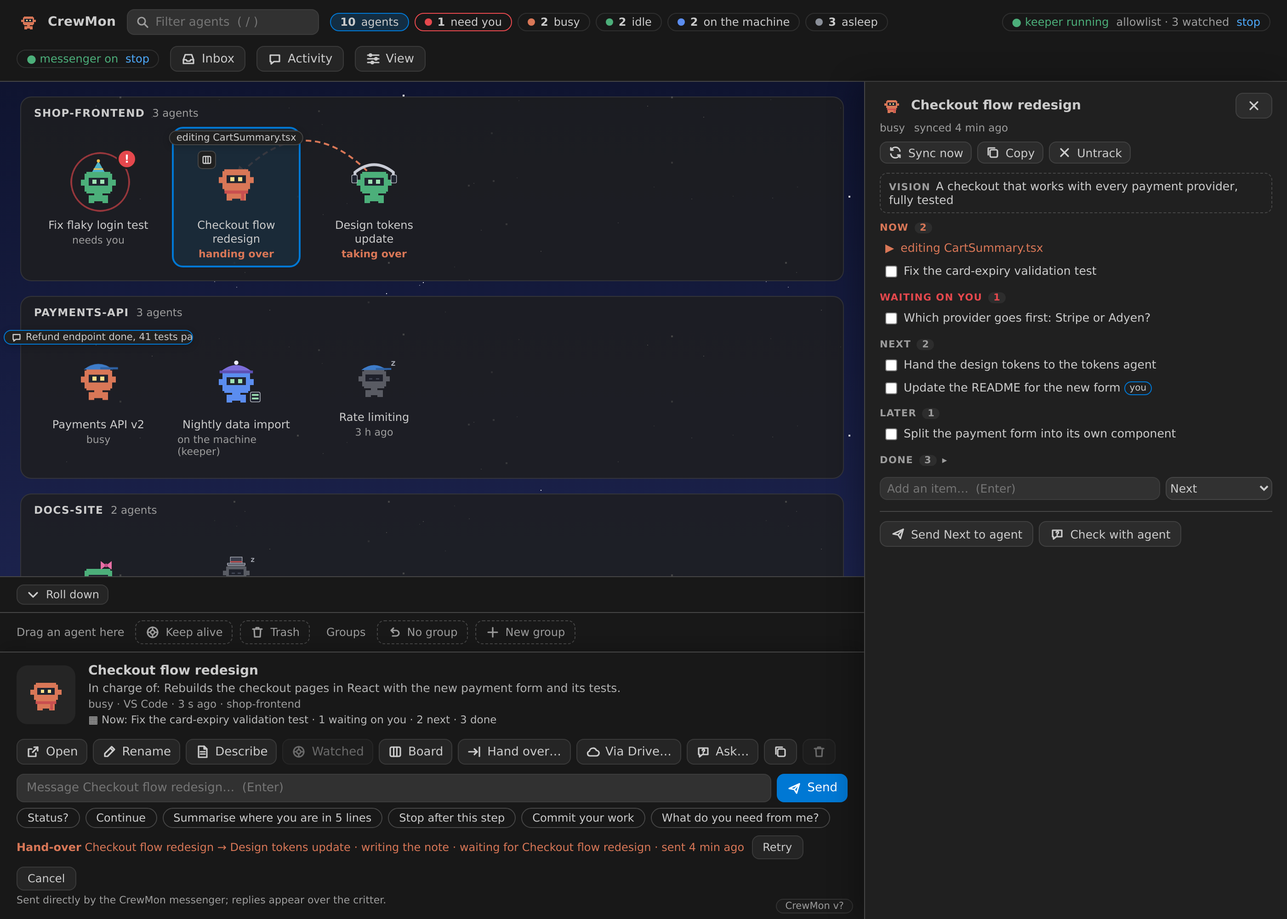
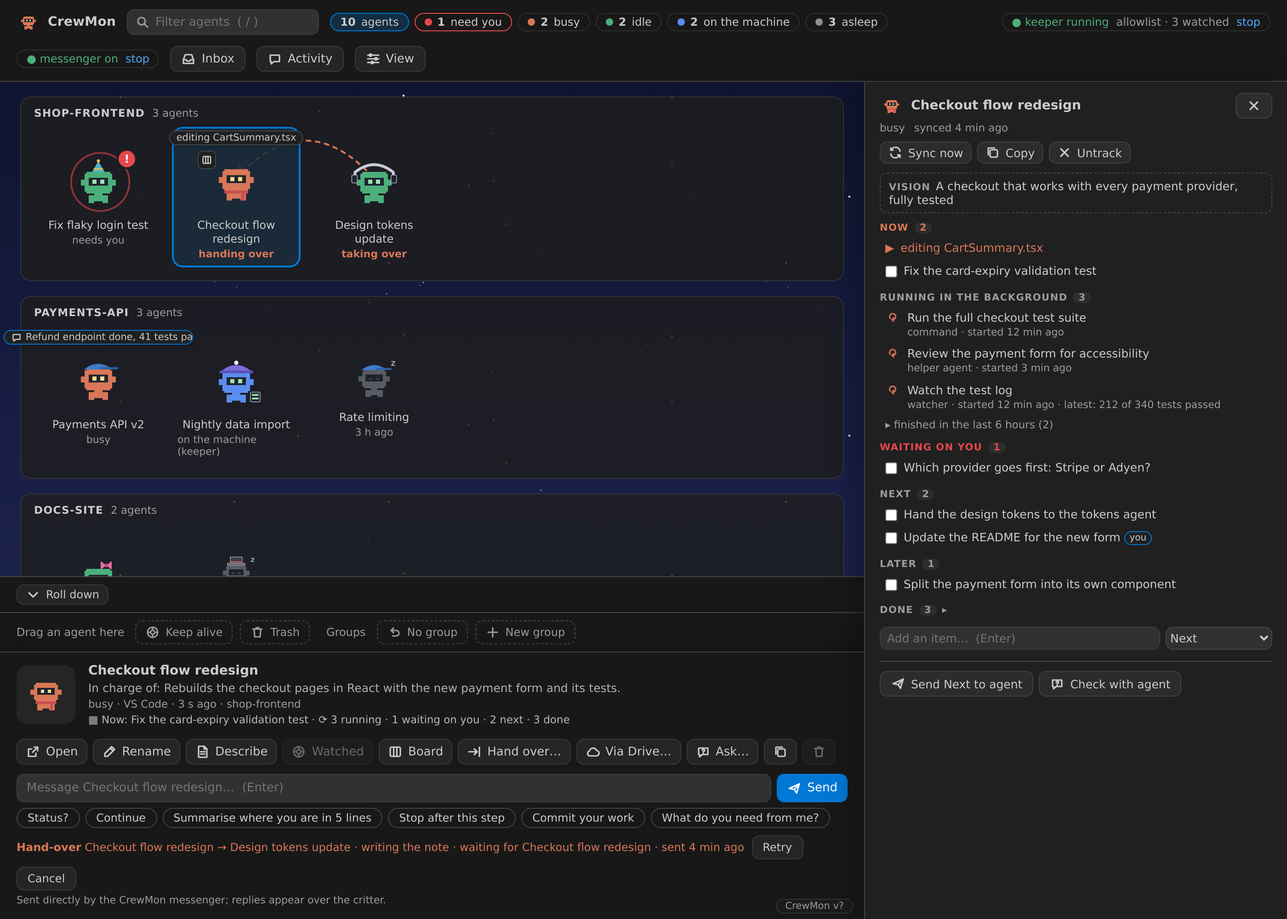
Work boards: show background work (commands, helper agents, workflows, watchers) from the chat; Send Next / Check with agent send directly and show the reply; re-sync after a reply

diff --git a/media/map.html b/media/map.html
@@ -292,6 +292,18 @@
   .bitem .acts button:hover { color: var(--fg); }
   .bitem .acts .ico { width: 13px; height: 13px; }
   .bitem.live { color: var(--busy); } .bitem.live.ask { color: var(--alert); }
+  .bjob { display: flex; gap: 8px; align-items: flex-start; padding: 4px 6px; border-radius: 6px; }
+  .bjob .ji { width: 16px; text-align: center; flex: none; font-weight: 700; }
+  .bjob.running .ji { color: var(--busy); animation: spin 1.6s linear infinite; display: inline-block; }
+  .bjob.completed .ji { color: var(--idle); } .bjob.failed .ji { color: var(--alert); } .bjob.stopped .ji, .bjob.unknown .ji { color: var(--muted); }
+  .bjob .jt { flex: 1; min-width: 0; line-height: 1.35; overflow-wrap: anywhere; }
+  .bjob .jm { color: var(--muted); font-size: 11px; }
+  .bjob:not(.running):not(.unknown) .jt > span:first-child { color: var(--muted); }
+  @keyframes spin { to { transform: rotate(360deg); } }
+  @media (prefers-reduced-motion: reduce) { .bjob.running .ji { animation: none; } }
+  #board .reply { margin-top: 10px; border-left: 3px solid var(--idle); background: var(--soft, rgba(127,127,127,.12)); border-radius: 6px; padding: 7px 10px; }
+  #board .reply.wait { border-left-color: var(--busy); color: var(--muted); }
+  #board .reply b { font-size: 10.5px; letter-spacing: .06em; text-transform: uppercase; color: var(--muted); display: block; margin-bottom: 3px; }
   .bempty { color: var(--muted); font-size: 11.5px; padding: 2px 6px; }
   #board .add { display: flex; gap: 6px; margin-top: 12px; }
   #board .add input { flex: 1; min-width: 0; }
@@ -436,7 +448,9 @@ const base = (p) => (p || '').split('/').filter(Boolean).pop() || '';
 const tilde = (p) => (p || '').replace(/^\/home\/[^/]+/, '~');
 const post = (m) => vscode.postMessage(m);
 
-let boards = {}, boardOpen = '', boardDoneOpen = false;
+let boards = {}, boardOpen = '', boardDoneOpen = false, boardJobsOpen = false;
+let replyAt = {};
+const boardSent = {};    // id -> {at, what}: you sent something from the board; the reply shows under it
 let sessions = [], keeper = null, chips = [], replies = {}, messengerOn = false, messengerStatus = 'off', active = [], activity = [];
 const saved = vscode.getState() || {};
 let layout = saved.layout || 'grouped';
@@ -766,6 +780,8 @@ function boardLine(s, b) {
   const n = (sec) => b.items.filter(x => x.section === sec).length;
   const now = b.items.find(x => x.section === 'now');
   const parts = [now ? 'Now: ' + now.text : s.state === 'busy' && s.activity ? 'Now: ' + s.activity : ''];
+  const run = b.jobs ? b.jobs.running.filter(j => j.status === 'running').length : 0;
+  if (run) parts.push('⟳ ' + run + ' running');
   if (n('waiting') || s.needsYou) parts.push((n('waiting') + (s.needsYou ? 1 : 0)) + ' waiting on you');
   parts.push(n('next') + ' next', n('done') + ' done');
   return '▦ ' + parts.filter(Boolean).join(' · ');
@@ -813,7 +829,23 @@ function renderBoard() {
     '<div class="tools"><button class="ghost" id="bsync"' + (b.syncing ? ' disabled' : '') + '>' + ic('sync') + 'Sync now</button>' +
     '<button class="ghost" id="bcopy">' + ic('copy') + 'Copy</button><button class="ghost" id="buntrack" title="Stop tracking; the board is kept">' + ic('x') + 'Untrack</button></div>' +
     '<div class="vision" id="bvision" title="Click to edit">' + '<b>Vision</b>' + (b.vision ? esc(b.vision) : '<span class="ph">the longer-term goal, in one line (click to write)</span>') + '</div>';
+  const jobs = b.jobs || { running: [], recent: [] };
+  const kindName = { command: 'command', subagent: 'helper agent', workflow: 'workflow', monitor: 'watcher' };
+  const since = (t) => t ? ago(Math.max(1, Math.round((Date.now() - t) / 1000))) : '';
+  const job = (j) => {
+    const icon = { running: '⟳', completed: '✓', failed: '✗', stopped: '■', unknown: '?' }[j.status] || '•';
+    const when = j.status === 'running' ? 'started ' + since(j.started) : j.status === 'unknown' ? 'its chat is closed, so it is probably not running' :
+      { completed: 'finished', failed: 'failed', stopped: 'stopped' }[j.status] + ' ' + since(j.ended);
+    const extra = j.last ? 'latest: ' + j.last : j.status !== 'running' && j.result ? j.result : '';
+    return '<div class="bjob ' + j.status + '" title="' + esc(j.title) + '"><span class="ji" aria-hidden="true">' + icon + '</span><div class="jt"><span>' + esc(j.title || kindName[j.kind]) + '</span>' +
+      '<div class="jm">' + esc(kindName[j.kind] + ' · ' + when) + (extra ? ' · ' + esc(extra) : '') + '</div></div></div>';
+  };
+  const runningHTML = (jobs.running.length || jobs.recent.length) ? '<div class="bsec jobs"><h4 title="Commands, helper agents, workflows and watchers it started in the background">Running in the background <span class="n">' +
+    jobs.running.length + '</span></h4>' + (jobs.running.length ? jobs.running.map(job).join('') : '<div class="bempty">nothing running right now</div>') +
+    (jobs.recent.length ? '<div class="bempty" id="bjobs" style="cursor:pointer" title="Show or hide">' + (boardJobsOpen ? '▾' : '▸') + ' finished in the last 6 hours (' + jobs.recent.length + ')</div>' +
+      (boardJobsOpen ? jobs.recent.map(job).join('') : '') : '') + '</div>' : '';
   for (const [sec, label] of SECS) {
+    if (sec === 'waiting') html += runningHTML;
     let items = b.items.filter(x => x.section === sec).sort((p, q) => (q.pinned - p.pinned) || (sec === 'done' ? q.at - p.at : p.at - q.at));
     const live = [];
     if (sec === 'now' && s.state === 'busy' && s.activity) live.push('<div class="bitem live" title="Live, from what it is doing this second">▶ <div class="tx">' + esc(s.activity) + '</div></div>');
@@ -827,14 +859,20 @@ function renderBoard() {
   }
   html += '<div class="add"><input type="text" id="badd" placeholder="Add an item…  (Enter)" aria-label="New item"><select id="baddsec" aria-label="Section">' +
     SECS.filter(([k]) => k !== 'done').map(([k, l]) => '<option value="' + k + '"' + (k === 'next' ? ' selected' : '') + '>' + l + '</option>').join('') + '</select></div>' +
-    '<div class="foot"><button class="ghost" id="bsendnext" title="Fill the message bar with your Next items; you press Send">' + ic('send') + 'Send Next to agent</button>' +
-    '<button class="ghost" id="bcheck" title="Fill the message bar with the board and ask the agent to correct it; you press Send">' + ic('ask') + 'Check with agent</button></div>';
+    '<div class="foot"><button class="ghost" id="bsendnext" title="Sends your Next items to the agent now; its reply shows here">' + ic('send') + 'Send Next to agent</button>' +
+    '<button class="ghost" id="bcheck" title="Sends the board to the agent and asks it to correct it; its reply shows here">' + ic('ask') + 'Check with agent</button></div>';
+  const sent = boardSent[s.id];
+  const reply = replies[s.id] && (!sent || (replyAt[s.id] || 0) > sent.at) ? replies[s.id] : '';   // only an answer that came after you sent
+  if (sent && !reply) html += '<div class="reply wait"><b>Sent: ' + esc(sent.what) + '</b>' +
+    (messengerOn ? 'Waiting for its reply… it appears here and over the critter.' : 'The chat opened with the message typed in: press Enter there to send it.') + '</div>';
+  else if (reply) html += '<div class="reply"><b>Its latest reply</b>' + esc(reply) + '</div>';
   el.innerHTML = html;
   const id = s.id;
   $('bclose').onclick = closeBoard;
   $('bsync').onclick = () => { bpost('sync'); b.syncing = true; renderBoard(); };
   $('bcopy').onclick = () => bpost('copy');
   $('buntrack').onclick = () => bpost('untrack');
+  if ($('bjobs')) $('bjobs').onclick = () => { boardJobsOpen = !boardJobsOpen; renderBoard(); };
   if ($('bdone')) $('bdone').onclick = () => { boardDoneOpen = !boardDoneOpen; renderBoard(); };
   el.querySelectorAll('[data-open]').forEach(x => x.onclick = () => post({ type: 'open', id }));
   $('bvision').onclick = () => editInline($('bvision'), b.vision, (t) => bpost('vision', { text: t }), 'The longer-term goal, in one line');
@@ -843,15 +881,20 @@ function renderBoard() {
     if (e.key === 'Enter' && $('badd').value.trim()) { bpost('add', { text: $('badd').value.trim(), section: $('baddsec').value }); $('badd').value = ''; }
     if (e.key === 'Escape') $('badd').blur();
   });
+  const sendNow = (what, text) => {
+    post({ type: 'send', ids: [id], text });
+    boardSent[id] = { at: Date.now(), what };
+    renderBoard();
+  };
   $('bsendnext').onclick = () => {
     const next = b.items.filter(x => x.section === 'next');
-    if (!next.length) { prefill(id, 'What comes next, in 3 lines?'); return; }
-    prefill(id, 'From my board, the next steps are: ' + next.map((x, i) => (i + 1) + ') ' + x.text).join('; ') + '. Continue with these, in this order.');
+    if (!next.length) { sendNow('asked what comes next', 'What comes next? Answer in 3 lines.'); return; }
+    sendNow('your ' + next.length + ' next step' + (next.length > 1 ? 's' : ''), 'From my board, the next steps are: ' + next.map((x, i) => (i + 1) + ') ' + x.text).join('; ') + '. Continue with these, in this order, and first reply in one line with what you start on.');
   };
   $('bcheck').onclick = () => {
     const name = { now: 'now', waiting: 'waiting on me', next: 'next', later: 'later' };
     const open = b.items.filter(x => x.section !== 'done').map(x => x.text + ' (' + name[x.section] + ')').join('; ');
-    prefill(id, 'This is how I see your work right now: ' + (b.vision ? 'goal: ' + b.vision + '. ' : '') + (open || 'nothing open') +
+    sendNow('the board, to check', 'This is how I see your work right now: ' + (b.vision ? 'goal: ' + b.vision + '. ' : '') + (open || 'nothing open') +
       '. Correct anything that is wrong or missing, in at most 5 lines. Do not start new work.');
   };
   el.querySelectorAll('.bitem[data-item]').forEach(row => {
@@ -1204,7 +1247,7 @@ window.addEventListener('message', (e) => {
     sessions = m.data.sessions || []; keeper = m.data.keeper || null; chips = m.data.chips || [];
     if (m.data.critter && m.data.critter !== defaultStyle) { defaultStyle = m.data.critter; renderLegend(); }
     $('style').value = critterStyle();
-    replies = m.data.replies || {}; messengerOn = !!m.data.messenger; messengerStatus = m.data.messengerStatus || 'off'; active = m.data.active || [];
+    replies = m.data.replies || {}; replyAt = m.data.replyAt || {}; messengerOn = !!m.data.messenger; messengerStatus = m.data.messengerStatus || 'off'; active = m.data.active || [];
     activity = m.data.activity || []; if (!$('act').hidden) renderActivity();
     drive = m.data.drive || drive; if (!$('inbox').hidden) renderInbox();
     boards = m.data.boards || {};

diff --git a/board.js b/board.js
@@ -116,6 +116,8 @@ function excerpt(file, from) {
     const m = r.message, c = m && m.content;
     if (r.type === 'user' && m && m.role === 'user') {
       const t = textOf(m);
+      const nt = /<task-notification>[\s\S]*?<status>(\w+)<\/status>[\s\S]*?<summary>([\s\S]*?)<\/summary>/.exec(t);
+      if (nt) { out.push('FINISHED (' + nt[1] + ') ' + clean(nt[2], 200)); continue; }
       if (/^(This session is being continued|.{0,40}Primary Request and Intent)/.test(t)) {
         const parts = []; let p; SUMMARY_PARTS.lastIndex = 0;
         while ((p = SUMMARY_PARTS.exec(String(typeof c === 'string' ? c : textOf(m)))) && parts.length < 3) parts.push(p[1] + ': ' + clean(p[2], 900));
@@ -226,6 +228,64 @@ function parseReply(out) {
   return j.ops;
 }
 
+// ---- background work: commands, subagents, workflows, monitors (no AI) ----
+const JOB_TOOLS = { Bash: 'command', Agent: 'subagent', Task: 'subagent', Workflow: 'workflow', Monitor: 'monitor' };
+function jobs(file, opts) {
+  const o = opts || {};
+  const st = fs.statSync(file);
+  const start = Math.max(0, st.size - (o.bytes || 8 * 1024 * 1024));
+  const fd = fs.openSync(file, 'r'); const buf = Buffer.alloc(st.size - start); fs.readSync(fd, buf, 0, buf.length, start); fs.closeSync(fd);
+  let text = buf.toString('utf8'); if (start > 0) text = text.slice(text.indexOf('\n') + 1);
+  const byUse = new Map(), byTask = new Map();
+  const finish = (j, status, at, summary) => {
+    if (!j || j.status !== 'running') return;
+    j.status = status; j.ended = at;
+    const r = clean(String(summary || '').replace(/^(Background command|Monitor|Dynamic workflow|Workflow|Agent|Subagent)\s+"[^"]*"\s*/i, ''), 200);
+    if (r) j.result = r;
+  };
+  for (const line of text.split('\n')) {
+    if (!line.includes('tool_use') && !line.includes('task-notification') && !line.includes('tool_result')) continue;
+    let r; try { r = JSON.parse(line); } catch (_) { continue; }
+    const at = r.timestamp ? Date.parse(r.timestamp) : 0, c = r.message && r.message.content;
+    const blocks = Array.isArray(c) ? c : typeof c === 'string' ? [{ type: 'text', text: c }] : [];
+    for (const b of blocks) {
+      if (!b) continue;
+      if (b.type === 'tool_use' && JOB_TOOLS[b.name]) {
+        const i = b.input || {};
+        if (b.name === 'Bash' && !i.run_in_background) continue;
+        byUse.set(b.id, { use: b.id, kind: JOB_TOOLS[b.name], title: clean(i.description || i.prompt || i.command || (i.script || '').replace(/[\s\S]*?description:\s*['"]([^'"]+)[\s\S]*/, '$1'), 90),
+          started: at, status: 'running', sync: b.name === 'Agent' && !i.run_in_background });
+      } else if (b.type === 'tool_result') {
+        const j = byUse.get(b.tool_use_id);
+        const t = typeof b.content === 'string' ? b.content : JSON.stringify(b.content || '');
+        if (j) {
+          const id = /background with ID: (\w+)|agentId: (\w+)|Task ID: (\w+)|Monitor started \(task (\w+)/.exec(t);
+          if (id) { j.task = id.slice(1).find(Boolean); byTask.set(j.task, j); }
+          else if (b.is_error) finish(j, 'failed', at, t.replace(/<[^>]+>/g, ' '));
+          else finish(j, 'completed', at, '');      // it ran in the foreground after all (or a subagent that waited)
+        }
+        const stop = /Successfully stopped task: (\w+)/.exec(t);
+        if (stop) finish(byTask.get(stop[1]), 'stopped', at, 'stopped');
+      } else if (b.type === 'text' && b.text && b.text.includes('<task-notification>')) {
+        for (const n of b.text.split('<task-notification>').slice(1)) {
+          const g = (tag) => { const x = new RegExp('<' + tag + '>([\\s\\S]*?)</' + tag + '>').exec(n); return x ? x[1].trim() : ''; };
+          const j = byUse.get(g('tool-use-id')) || byTask.get(g('task-id'));
+          if (!j) continue;
+          const status = g('status');
+          if (status) finish(j, status === 'completed' ? 'completed' : status === 'failed' ? 'failed' : 'stopped', at, g('summary'));
+          else { j.last = clean(g('summary') || g('event') || n.replace(/<[^>]+>/g, ' '), 140); j.lastAt = at; }   // a monitor's event
+        }
+      }
+    }
+  }
+  const now = o.now || Date.now();
+  const list = [...byUse.values()].filter(j => !(j.sync && j.status !== 'running'));
+  if (o.offline) for (const j of list) if (j.status === 'running') { j.status = 'unknown'; j.result = 'the chat is not running'; }
+  const running = list.filter(j => j.status === 'running' || j.status === 'unknown').sort((a, b) => b.started - a.started);
+  const recent = list.filter(j => j.status !== 'running' && j.status !== 'unknown' && now - (j.ended || 0) < (o.recentMs || 6 * 3600e3)).sort((a, b) => b.ended - a.ended);
+  return { running: running.slice(0, 12), recent: recent.slice(0, 8) };
+}
+
 // Should this tracked agent sync now? New turns, idle (or forced), and not too soon.
 function due(b, s, now) {
   if (!b || !b.tracked || !s || !s.file) return false;
@@ -234,4 +294,4 @@ function due(b, s, now) {
   return (now || Date.now()) - (b.lastTry || 0) >= MIN_GAP_MS;
 }
 
-module.exports = { SECTIONS, dir, fileOf, empty, load, save, all, userEdit, excerpt, applyTodos, applyOps, prompt, parseReply, due, similar, norm, MIN_GAP_MS };
+module.exports = { jobs, SECTIONS, dir, fileOf, empty, load, save, all, userEdit, excerpt, applyTodos, applyOps, prompt, parseReply, due, similar, norm, MIN_GAP_MS };

diff --git a/tools/test/board.test.js b/tools/test/board.test.js
@@ -118,3 +118,46 @@ test('save is atomic and all() reads boards back', () => {
   assert.equal(B.all(home).s1.vision, 'Ship 1.0');
   assert.ok(!fs.existsSync(B.fileOf('s1', home) + '.tmp'));
 });
+
+test('background work: running, finished, failed, stopped, workflow, subagent, monitor', () => {
+  const f = path.join(fs.mkdtempSync(path.join(os.tmpdir(), 'crewmon-jobs-')), 'c.jsonl');
+  const T = (m) => new Date(Date.now() - m * 60e3).toISOString();
+  const use = (id, name, input, m) => ({ type: 'assistant', timestamp: T(m), message: { content: [{ type: 'tool_use', id, name, input }] } });
+  const res = (id, text, m) => ({ type: 'user', timestamp: T(m), message: { role: 'user', content: [{ type: 'tool_result', tool_use_id: id, content: text }] } });
+  const note = (use, task, status, summary, m) => ({ type: 'user', timestamp: T(m), message: { role: 'user', content:
+    '<task-notification>\n<task-id>' + task + '</task-id>\n<tool-use-id>' + use + '</tool-use-id>\n' + (status ? '<status>' + status + '</status>\n' : '') + '<summary>' + summary + '</summary>\n</task-notification>' } });
+  const recs = [
+    use('u1', 'Bash', { command: 'python long.py', description: 'Run the long job', run_in_background: true }, 50), res('u1', 'Command running in background with ID: b1. Output…', 50),
+    use('u2', 'Bash', { command: 'make', description: 'Build it', run_in_background: true }, 40), res('u2', 'Command running in background with ID: b2.', 40),
+    note('u2', 'b2', 'completed', 'Background command "Build it" completed (exit code 0)', 30),
+    use('u3', 'Bash', { command: 'pytest', description: 'Run tests', run_in_background: true }, 40), res('u3', 'Command running in background with ID: b3.', 40),
+    note('u3', 'b3', 'failed', 'Background command "Run tests" failed with exit code 1', 35),
+    use('u4', 'Bash', { command: 'sleep 999', description: 'Wait', run_in_background: true }, 20), res('u4', 'Command running in background with ID: b4.', 20),
+    use('u5', 'TaskStop', { task_id: 'b4' }, 19), res('u5', '{"message":"Successfully stopped task: b4 (sleep 999)"}', 19),
+    use('u6', 'Workflow', { script: "export const meta = { name: 'x', description: 'Verify the tables' }" }, 15), res('u6', 'Workflow launched in background. Task ID: w1\nSummary: Verify the tables', 15),
+    use('u7', 'Agent', { description: 'Find the data', prompt: 'find', run_in_background: true }, 10), res('u7', [{ type: 'text', text: 'Async agent launched successfully.\nagentId: a1 (internal ID)' }], 10),
+    note('u7', 'a1', 'completed', 'Agent "Find the data" finished', 5),
+    use('u8', 'Agent', { description: 'Quick look', prompt: 'look' }, 9), res('u8', 'It is in data/', 8),
+    use('u9', 'Monitor', { command: 'until …', description: 'Watch the log' }, 6), res('u9', 'Monitor started (task m1, expires in 30m…)', 6),
+    note('u9', 'm1', '', 'stage 3 of 5 done', 2),
+    use('u10', 'Bash', { command: 'ls', description: 'List' }, 1),
+  ];
+  fs.writeFileSync(f, recs.map(r => JSON.stringify(r)).join('\n') + '\n');
+  const j = B.jobs(f);
+  const st = (t) => { const x = j.running.concat(j.recent).find(y => y.title === t); return x && x.status; };
+  assert.equal(st('Run the long job'), 'running');
+  assert.equal(st('Build it'), 'completed');
+  assert.equal(j.recent.find(y => y.title === 'Build it').result, 'completed (exit code 0)');
+  assert.equal(st('Run tests'), 'failed');
+  assert.equal(st('Wait'), 'stopped');
+  assert.equal(st('Verify the tables'), 'running');
+  assert.equal(st('Find the data'), 'completed');
+  assert.equal(st('Quick look'), undefined);        // a subagent that ran while the agent waited is not background work
+  assert.equal(st('List'), undefined);              // a normal command is not background work
+  assert.equal(j.running.find(y => y.title === 'Watch the log').last, 'stage 3 of 5 done');
+  assert.equal(j.running.length, 3);
+  const off = B.jobs(f, { offline: true });
+  assert.equal(off.running.find(y => y.title === 'Run the long job').status, 'unknown');
+  const ex = B.excerpt(f, 0);
+  assert.ok(ex.text.includes('FINISHED (failed) Background command "Run tests" failed with exit code 1'));
+});

diff --git a/extension.js b/extension.js
@@ -135,11 +135,12 @@ function autoResend(active, lines) {
 }
 let lastSessions = [];
 function readInbox() {
-  const replies = {}, now = Date.now();
+  const replies = {}, replyAt = {}, now = Date.now();
   let lines = [];
   try { lines = fs.readFileSync(path.join(MSG_DIR, 'inbox.jsonl'), 'utf8').split('\n').filter(Boolean).map(l => JSON.parse(l)); } catch (_) { /* none yet */ }
   for (const x of lines) {
-    if (x.kind === 'reply' && x.session && now - x.at < 30 * 60e3) replies[x.session] = (x.text || '').slice(0, 300);
+    if (x.kind === 'reply' && x.session && now - x.at < 30 * 60e3) { replies[x.session] = (x.text || '').slice(0, 300); replyAt[x.session] = x.at; }
+    if (x.at > inboxSeen && x.kind === 'reply' && x.session && Board.load(x.session)) boardForce.add(x.session);   // a tracked agent answered: bring its board up to date
     if (x.at > inboxSeen && x.kind === 'drive-uploaded') {
       let d = {}; try { d = JSON.parse(x.text); } catch (_) { /* */ }
       const pick = pickupText(d.title, d.url, d.zip);
@@ -196,7 +197,7 @@ function readInbox() {
   autoResend(active, lines);
   let drive = null;
   try { drive = JSON.parse(fs.readFileSync(path.join(MSG_DIR, 'drive.json'), 'utf8')); } catch (_) { /* not listed yet */ }
-  return { replies, active, activity, drive };
+  return { replies, replyAt, active, activity, drive };
 }
 
 // ---- Google Drive hand-overs ----
@@ -471,10 +472,23 @@ async function boardAction(m) {
   }
   push();
 }
-function boardsForView() {
+const jobCache = new Map();         // id -> {key, val}: background work, re-read only when the chat grows (or once a minute)
+function jobsOf(s) {
+  const key = s.size + ':' + (s.state === 'offline') + ':' + Math.floor(Date.now() / 60e3);
+  const c = jobCache.get(s.id);
+  if (c && c.key === key) return c.val;
+  let val = { running: [], recent: [] };
+  try { val = Board.jobs(s.file, { offline: s.state === 'offline' }); } catch (_) { /* unreadable: show none */ }
+  jobCache.set(s.id, { key, val });
+  return val;
+}
+function boardsForView(sessions) {
   const out = {};
-  for (const b of Object.values(Board.all())) if (b.tracked)
-    out[b.id] = { vision: b.vision, items: b.items, syncedAt: b.syncedAt, lastError: b.lastError, syncing: boardBusy === b.id };
+  for (const b of Object.values(Board.all())) if (b.tracked) {
+    const s = (sessions || []).find(x => x.id === b.id);
+    out[b.id] = { vision: b.vision, items: b.items, syncedAt: b.syncedAt, lastError: b.lastError, syncing: boardBusy === b.id,
+      jobs: s && s.file ? jobsOf(s) : { running: [], recent: [] } };
+  }
   return out;
 }
 
@@ -589,10 +603,11 @@ async function push() {
   lastSessions = data.sessions || [];
   const ib = readInbox();
   data.replies = ib.replies;
+  data.replyAt = ib.replyAt;
   data.active = ib.active;
   data.activity = ib.activity;
   data.drive = ib.drive;
-  data.boards = boardsForView();
+  data.boards = boardsForView(data.sessions);
   const slim = Object.assign({}, data, { sessions: (data.sessions || []).map(s => Object.assign({}, s, { summary: undefined })) });
   if (panel) panel.webview.postMessage({ type: 'data', data: slim });
 }

diff --git a/tools/screenshot/demo-data.js b/tools/screenshot/demo-data.js
@@ -43,7 +43,15 @@ module.exports = {
     { id: 'demo1', title: 'Hand-over from Payments API v2 · 2026-11-20', modified: '2026-11-20T09:41:00Z', description: 'CrewMon hand-over, not picked up yet', url: 'https://docs.google.com/document/d/demo1/edit' },
     { id: 'demo2', title: 'Hand-over from Release notes 2.4 · 2026-11-18', modified: '2026-11-18T16:05:00Z', description: 'Picked up by "Docs search" on 2026-11-19 08:12', url: 'https://docs.google.com/document/d/demo2/edit' } ] },
   messenger: true, messengerStatus: 'on', critter: 'bot',
-  boards: { 'a1f3c9d2-1': { vision: 'A checkout that works with every payment provider, fully tested', syncedAt: now - 240e3, syncing: false, lastError: '', items: [
+  boards: { 'a1f3c9d2-1': { jobs: {
+    running: [
+      { kind: 'command', title: 'Run the full checkout test suite', status: 'running', started: now - 720e3 },
+      { kind: 'subagent', title: 'Review the payment form for accessibility', status: 'running', started: now - 180e3 },
+      { kind: 'monitor', title: 'Watch the test log', status: 'running', started: now - 700e3, last: '212 of 340 tests passed' } ],
+    recent: [
+      { kind: 'workflow', title: 'Check every page in three browsers', status: 'completed', started: now - 5400e3, ended: now - 3000e3, result: 'completed: 18 pages, no problems' },
+      { kind: 'command', title: 'Build the production bundle', status: 'failed', started: now - 2400e3, ended: now - 2300e3, result: 'failed with exit code 1' } ] },
+    vision: 'A checkout that works with every payment provider, fully tested', syncedAt: now - 240e3, syncing: false, lastError: '', items: [
     { id: 'b1', section: 'now', text: 'Fix the card-expiry validation test', src: 'auto', at: now - 300e3 },
     { id: 'b2', section: 'waiting', text: 'Which provider goes first: Stripe or Adyen?', src: 'auto', at: now - 900e3 },
     { id: 'b3', section: 'next', text: 'Hand the design tokens to the tokens agent', src: 'auto', at: now - 800e3 },

diff --git a/docs/BOARD.md b/docs/BOARD.md
@@ -35,13 +35,21 @@ and draws the board. Nothing is sent to an agent unless you click.
 - At most 6 new items per sync; near-duplicates are merged.
 - Untrack keeps the board file; Track again brings it back.
 
+## Running in the background
+
+Read straight from the chat, no AI: every command started with `run_in_background`, helper agent (async subagent),
+workflow and watcher (Monitor) has a start and a finish record (`completed`, `failed`, `stopped`) that points back to
+it. The board shows what is running and for how long, the latest event of a watcher, and what finished in the last 6
+hours. When the chat is closed, anything still marked running is shown as *probably not running*. Finished work is
+also given to the sync as proof for *Done*.
+
 ## Talking to the agent (only when you click)
 
-- **Ask** on an item: the message bar opens with that item filled in.
-- **Send Next**: the message bar opens with your *Next* items as a numbered list.
-- **Check with agent**: the message bar opens with the board, asking the agent to correct it in a few lines.
+- **Send Next to agent** and **Check with agent** send at once (through the messenger) and show *Waiting for its
+  reply…*; only an answer that arrives after you sent counts, and the board re-syncs when it arrives.
+- **Ask** on an item fills the message bar with that item, for you to finish and send.
 
-You still press Send, so the agent is never interrupted by the board itself.
+Nothing is ever sent by the board on its own.
 
 ## Files
 

diff --git a/README.md b/README.md
@@ -113,8 +113,11 @@ the card shows one line (*Now: … · 1 waiting on you · 2 next*), and **Board*
   its own to-do list, that list is used as is.
 - **Your items stay yours**: what you add, edit or pin is never reworded or moved by the sync; it can only be ticked
   done. What you delete never comes back. *Done* without proof shows as *probably*.
-- **Talk to the agent from it**: *Ask* on an item, *Send Next to agent* and *Check with agent* fill the message bar,
-  and you press Send. **Sync now**, **Copy** (as Markdown) and **Untrack** (the board is kept) are at the top.
+- **Running in the background**: the commands, helper agents, workflows and watchers it started, with how long they
+  have run (⟳), and what finished in the last 6 hours (✓ done, ✗ failed, ■ stopped). Read straight from the chat, no AI.
+- **Talk to the agent from it**: *Send Next to agent* and *Check with agent* send at once, and its reply shows under
+  the buttons; the board then updates itself. *Ask* on an item fills the message bar for you to finish.
+  **Sync now**, **Copy** (as Markdown) and **Untrack** (the board is kept) are at the top.
 - Design and rules: [docs/BOARD.md](docs/BOARD.md).
 
 ### Drag and drop
